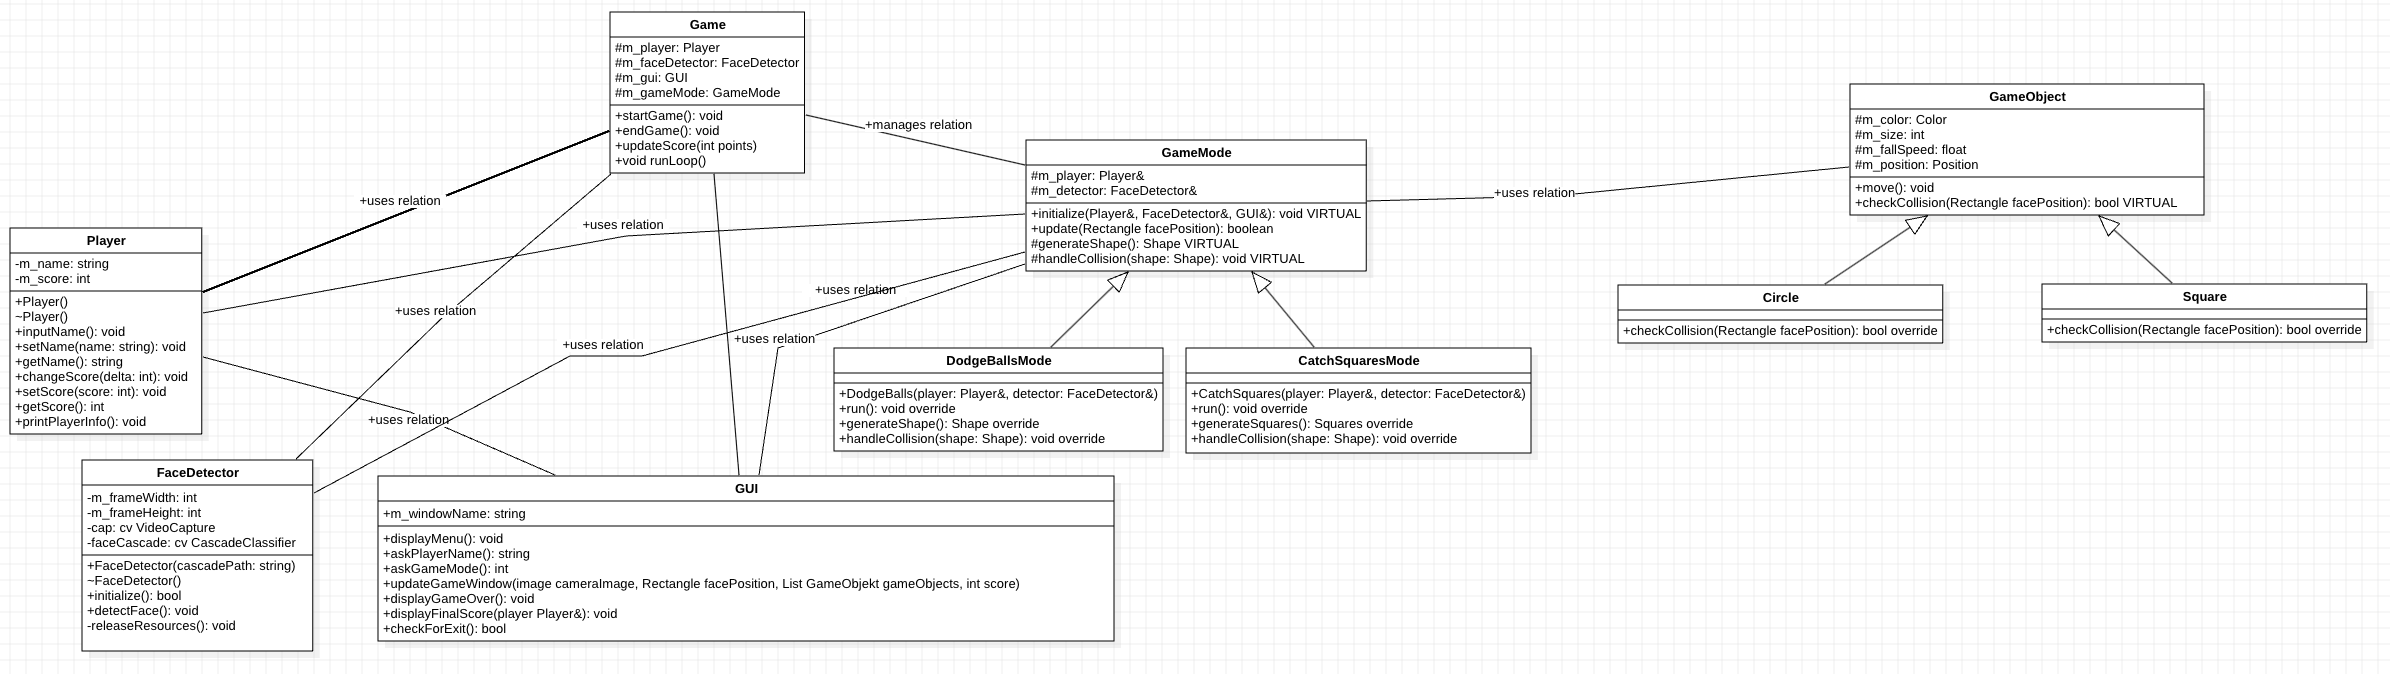
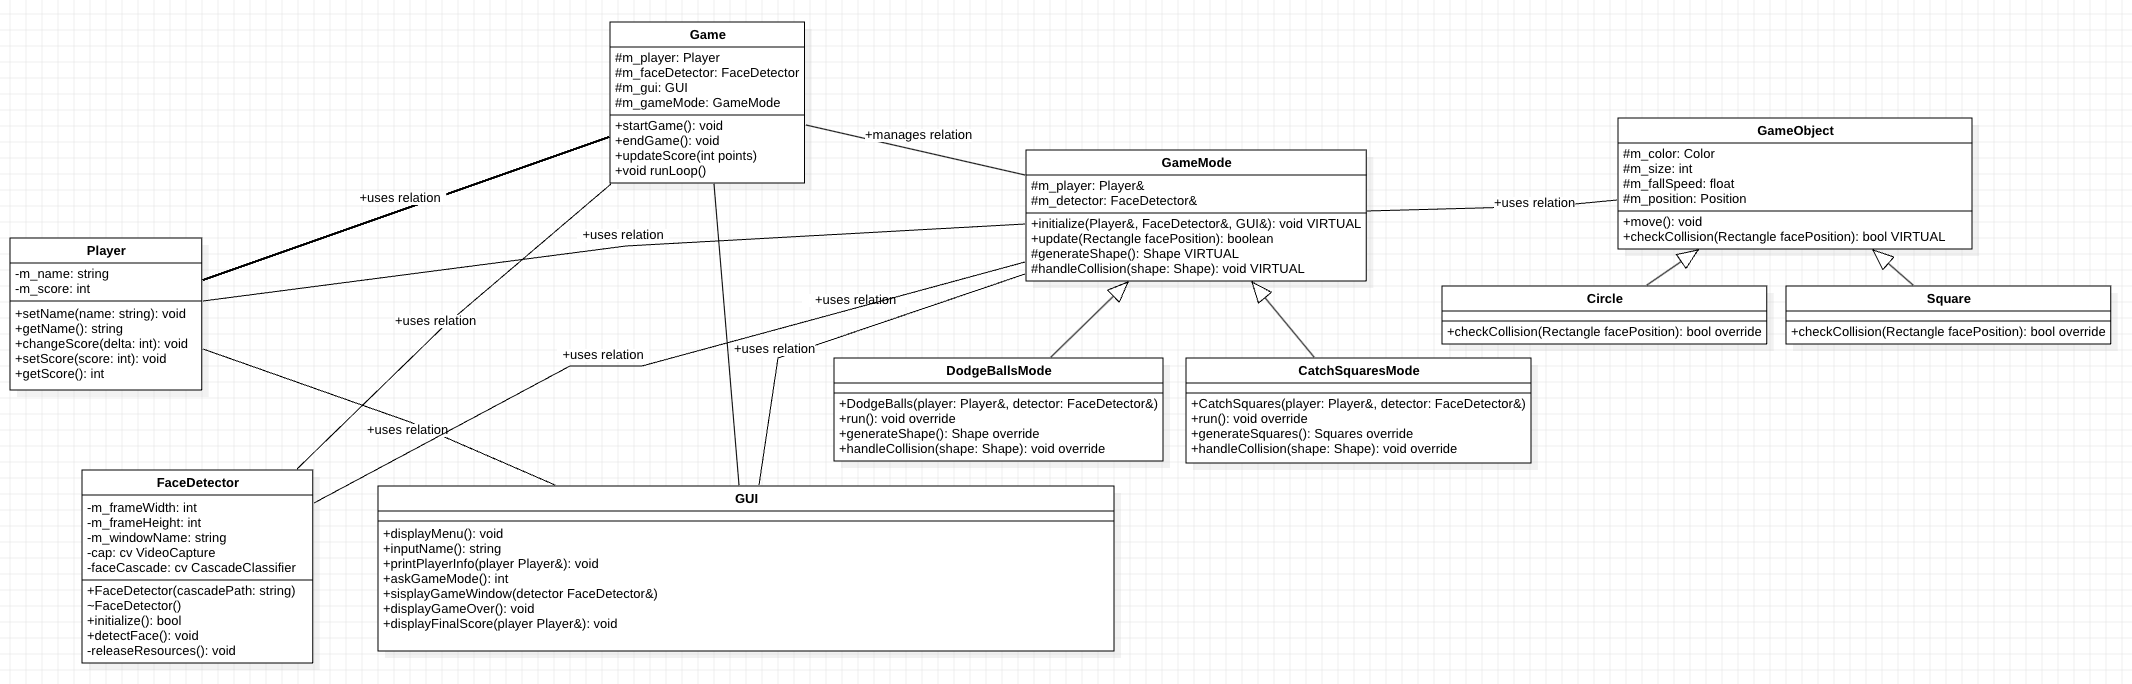
Changed UML including (de)constructors and minor fixes

diff --git a/inc/Player.hpp b/inc/Player.hpp
@@ -33,7 +33,7 @@ public:
     void setScore(int score);
 
     // Gets the player's score.
-    int getScore() const;
+    int getScore() const; //TO DO evtl. in GUI
 
 private:
     std::string m_name {}; // Default initialized empty string

diff --git a/inc/GUI.hpp b/inc/GUI.hpp
@@ -40,9 +40,6 @@ public:
 
     // Shows final score and player name
     void displayFinalScore(const Player& player);
-
-    // checks if key to close loop is presses (ESC)
-    void checkForExitInput();
 };
 
 #endif // GUI_HPP
